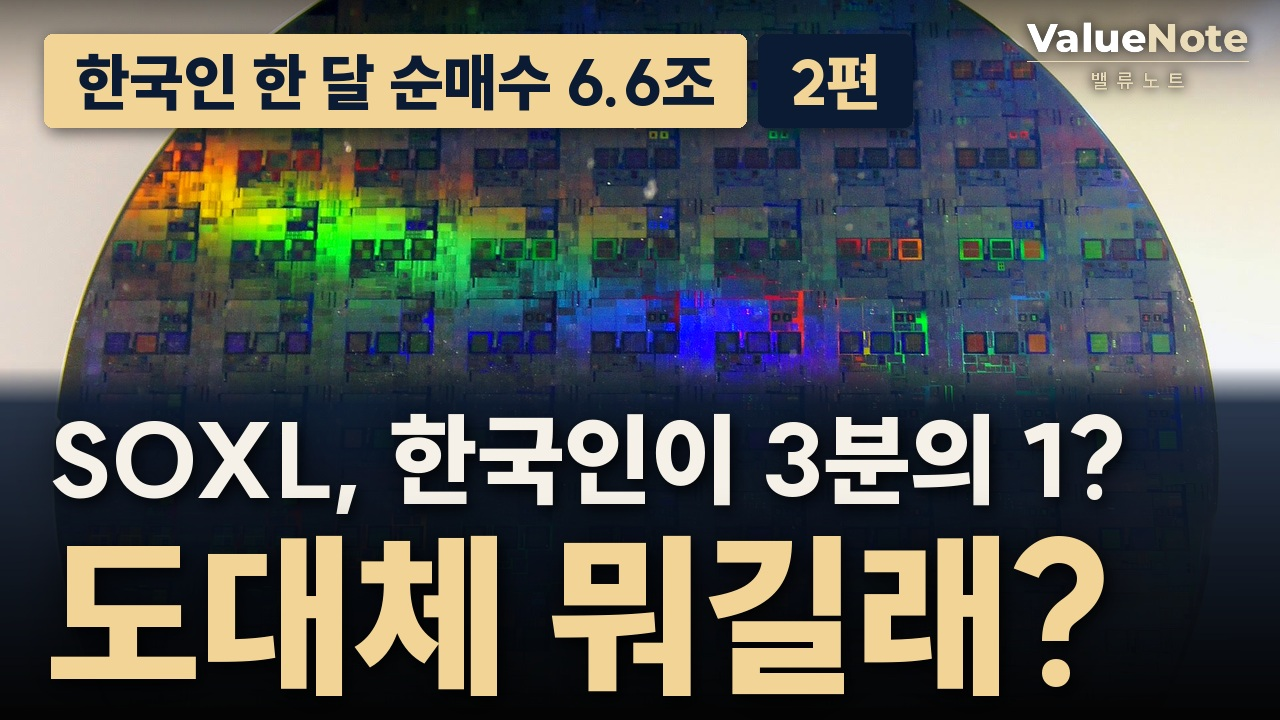
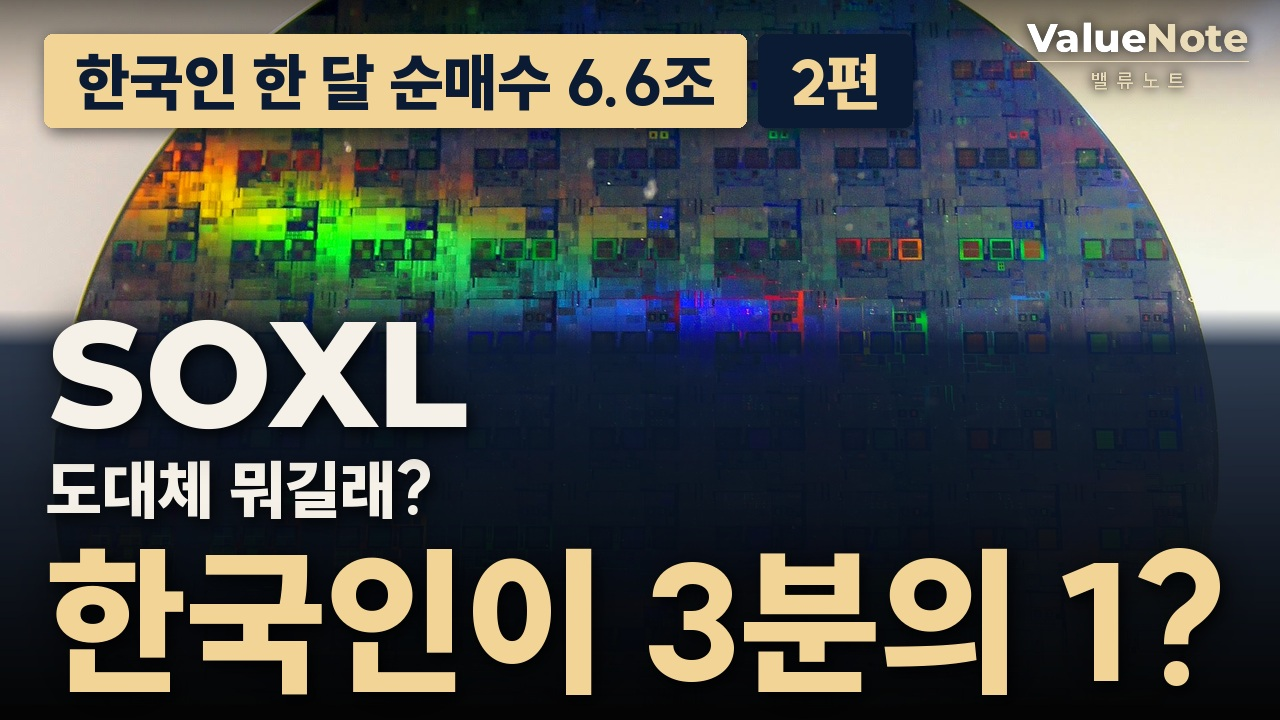
SOXL 2편 C안: 핵심 주제(SOXL·한국인이 3분의 1?) 크게, 도대체 뭐길래 작게 + 썸네일 글씨 규칙 FORMAT 기록 [skip ci]
Claude-Session: https://claude.ai/code/session_01KaYReJSUMgYMNDKAVitX2o

Changed region(s): [[0.0, 0.4278, 1.0, 0.9778]]

diff --git a/scripts/reels/thumb_v5.py b/scripts/reels/thumb_v5.py
@@ -164,7 +164,7 @@ def render(spec, out):
     text(im, (LX, y2), spec["l2"], f2, tuple(spec.get("c2", {"down": RED, "gold": (242, 212, 151)}.get(spec.get("tone"), GREEN))))   # 2026-11-06 대표님: 노란색 촌스러움 → 원래 썸네일 색(아이보리 + 형광 초록)
     if spec.get("company"):   # 2026-11-09 대표님: 쇼츠처럼 롱폼 썸네일에도 기업 로고(이름) — 두 줄 제목 바로 위
         fc = fit(spec["company"], spec.get("company_s", 104), 620, "Heavy") if not os.path.exists(os.path.join(HERE, "fonts", "Montserrat-ExtraBold.ttf")) else ImageFont.truetype(os.path.join(HERE, "fonts", "Montserrat-ExtraBold.ttf"), spec.get("company_s", 104))
-        text(im, (LX + spec.get("company_dx", 2), y1 - f1.size - 72), spec["company"], fc, IVORY)   # 11/9 17:21 대표님: 더 크게, 제목과 왼쪽 정렬, 살짝 위로
+        text(im, (LX + spec.get("company_dx", 2), y1 - f1.size - spec.get("company_gap", 72)), spec["company"], fc, IVORY)   # 11/9 17:21 대표님: 더 크게, 제목과 왼쪽 정렬, 살짝 위로
     if spec.get("tag") and spec.get("tag_style") == "solid":   # 2026-11-11 대표 "위 배너 배경을 둘째 줄 색으로, 글씨는 흰색 — 통일감 있게 세련되게"
         c2_ = tuple(spec.get("c2", {"down": RED, "gold": (242, 212, 151)}.get(spec.get("tone"), GREEN))); bg_ = tuple(spec.get("tag_bg", c2_))
         ft = font(spec.get("st", 62), "Heavy"); tw = ft.getlength(spec["tag"]); ph = ft.size * 1.5; pw = tw + ft.size * 1.0; x0, y0 = 44, 34

diff --git a/scripts/youtube/long/FORMAT.md b/scripts/youtube/long/FORMAT.md
@@ -2,6 +2,8 @@
 
 > ★ 2026-11-11 배경음악 크기(대표 "SOXL 2편 배경음악 크지 않아?"): bed_gain_db는 곡 자체 크기에 맞춰 정한다. 120Hz 위 평균 음량 H6 -18.0dB · H1 -15.9dB · H5 -15.4dB — 대표가 괜찮다고 본 빼빼로 편(H6, +3) 기준으로 H5·H1 본편은 **bed_gain_db -1.5**(빼빼로 편보다 약 2dB 작게). 새 곡은 `ffmpeg -ss 30 -t 60 -i 곡 -af "highpass=f=120,volumedetect"` 평균이 -18dB보다 X dB 크면 bed_gain_db = 3 - X - 2.
 
+> ★ 2026-11-11 썸네일 글씨(대표 SOXL 2편 검수): ① 핵심 주제(종목명·핵심 숫자 — 예 "SOXL", "한국인이 3분의 1?")가 가장 크고, "도대체 뭐길래?" 같은 보조 말은 작게 (thumb_v5 company + 작은 l1 + 큰 l2). ② 위 띠는 `tag_style: "solid"` — 배경은 둘째 줄과 같은 색, 글씨는 네이비, 크기는 둘째 줄보다 한참 작게(st 62 안팎). 시리즈 후속편은 `ep: "2편"`(네이비 상자). ③ 시리즈 후속편 A안 = 앞 편 썸네일 그대로 + 2편. ④ 대표가 직접 준 인물 사진은 써도 된다(일반인이 함께 찍힌 사진은 쓰지 않음).
+
 # 밸류노트 유튜브 롱폼 메인 포맷 (v1, 2026-10-21 첫 편 SK하이닉스 기준)
 
 > **제1 원칙 (2026-10-29 운영자)**: 작업을 시작하기 전에 `scripts/OWNER_RULES.md`(원본: Supabase docs agent 'owner-rules', 관리자 → 운영 기준)를 가장 먼저 읽고, 이 문서의 어떤 규칙보다 우선해 따른다.
